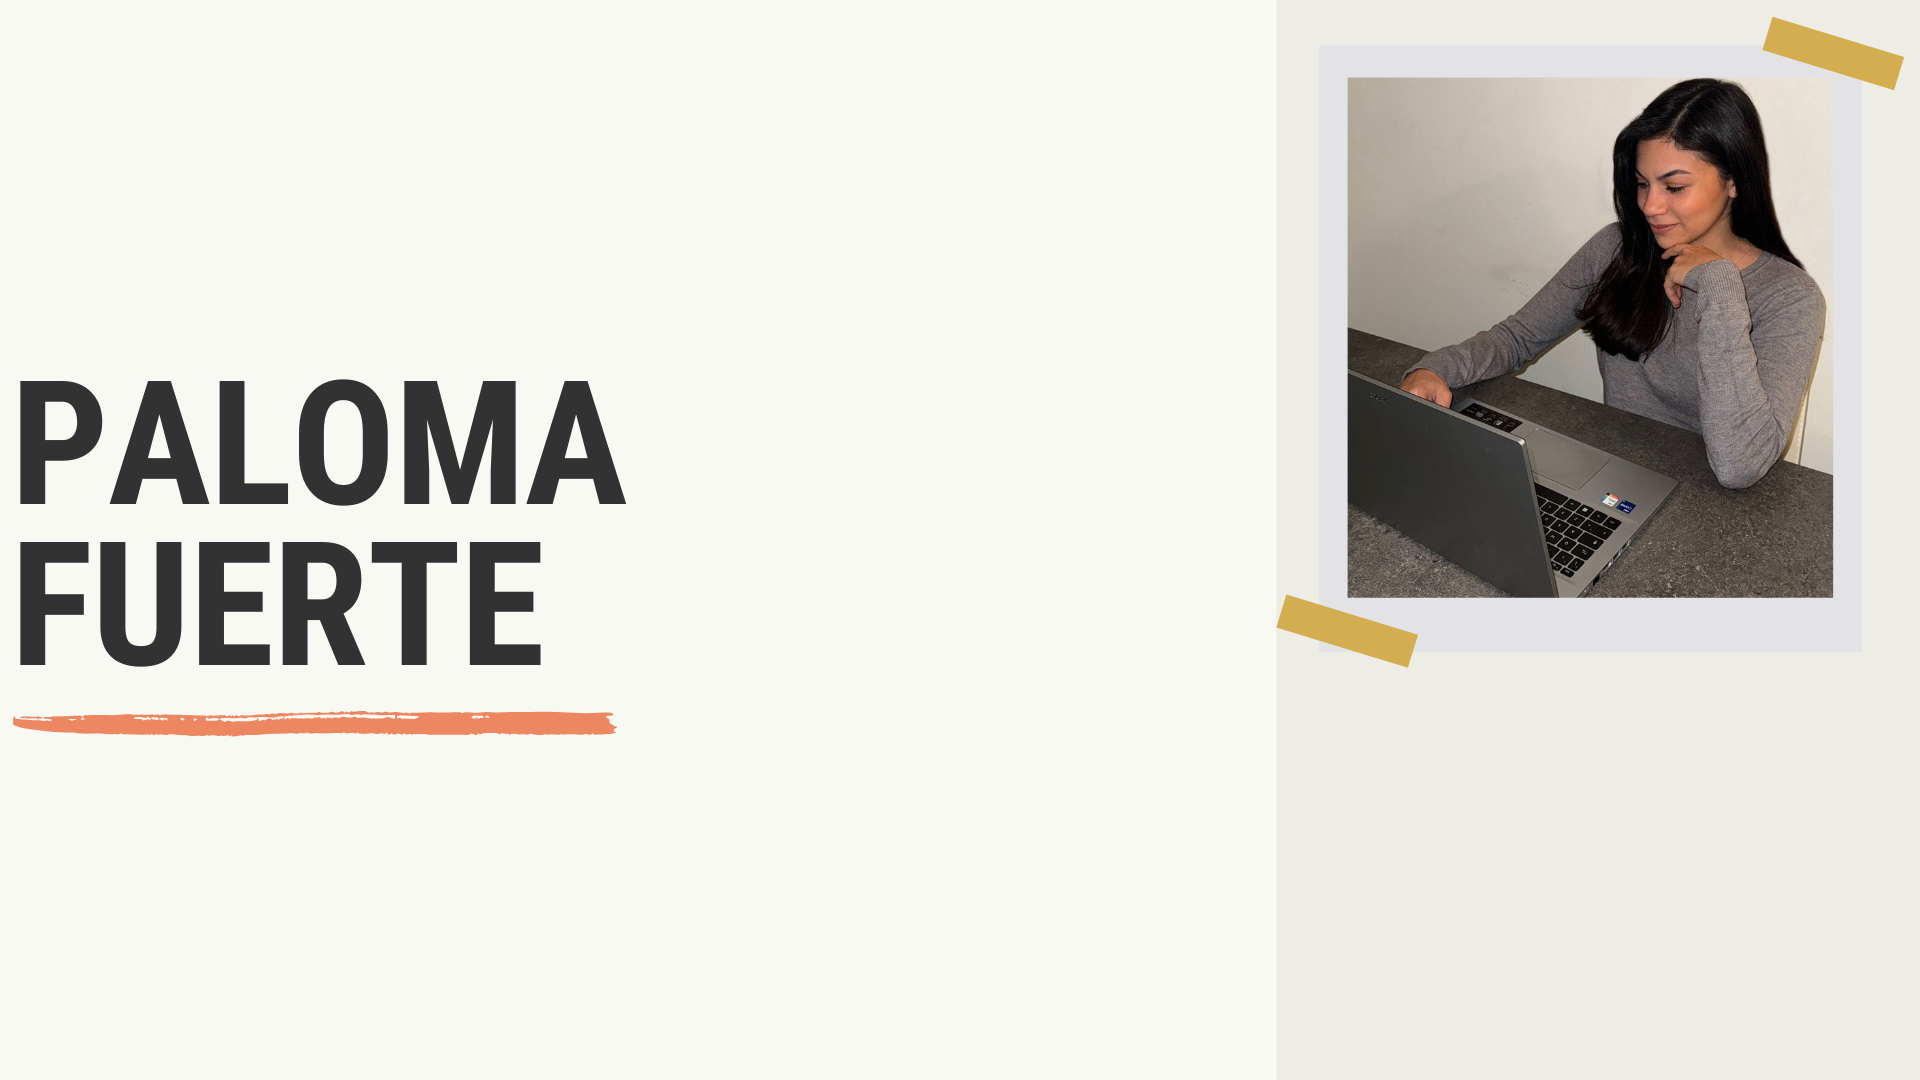
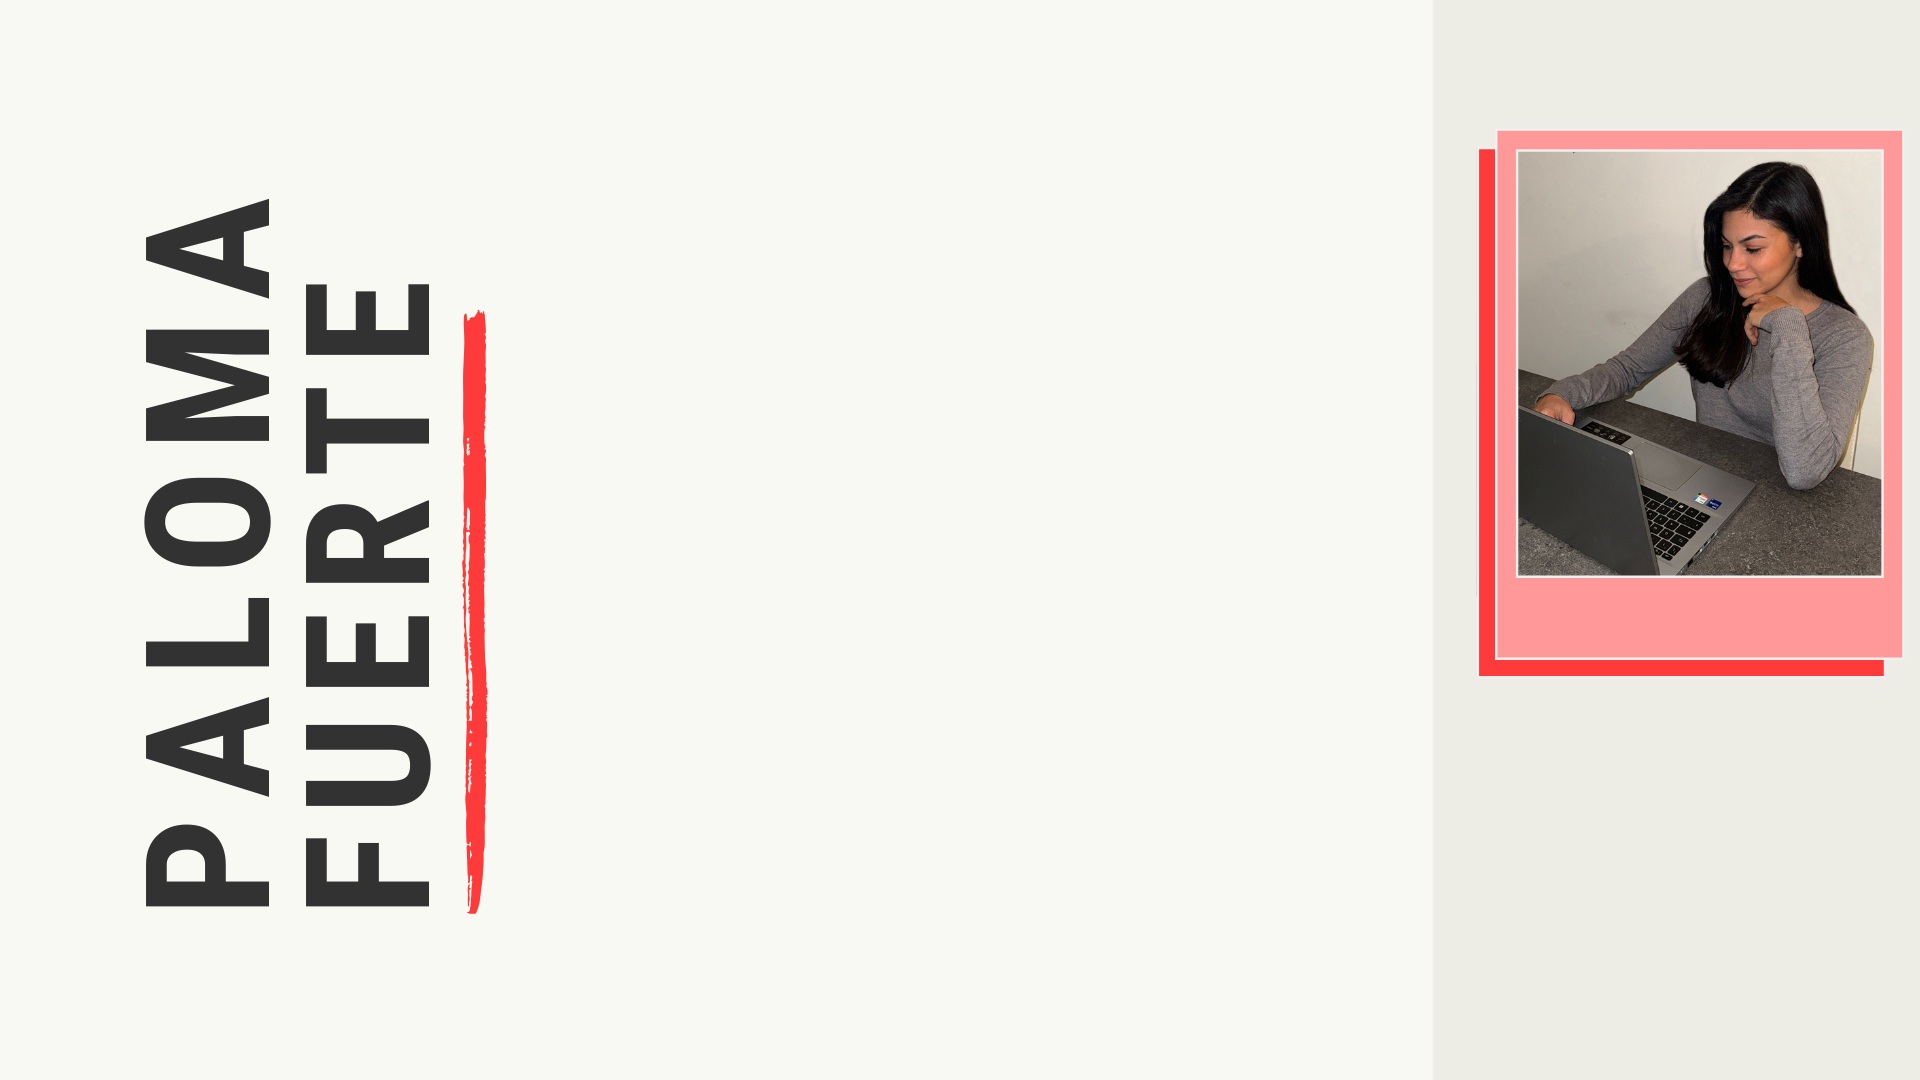
Box Homepage

Changed region(s): [[0.6562, 0.0611, 1.0, 0.6417], [0.0, 0.1833, 0.3438, 0.8556], [0.9062, 0.0, 1.0, 0.0917]]

diff --git a/assets/css/style.css b/assets/css/style.css
@@ -143,11 +143,12 @@ nav a:hover {
 
 @media (min-width: 992px) {
   .bio-panel {
-    width: 360px;
+    max-width: 700px;
+    width: 100%;
     padding: 3rem;
   }
   .bio-hero {
-    height: calc(100vh - 10px);
+    height: 100vh;
   }
 }
 .bio-pic-vertical {

diff --git a/assets/sass/style.scss b/assets/sass/style.scss
@@ -155,12 +155,13 @@ nav {
 
 @media (min-width: 992px) {
   .bio-panel {
-    width: 360px;
+    max-width: 700px;
+    width: 100%;
     padding: 3rem;
   }
 
   .bio-hero {
-    height: calc(100vh - 10px);
+    height: 100vh;
   }
 }
 
